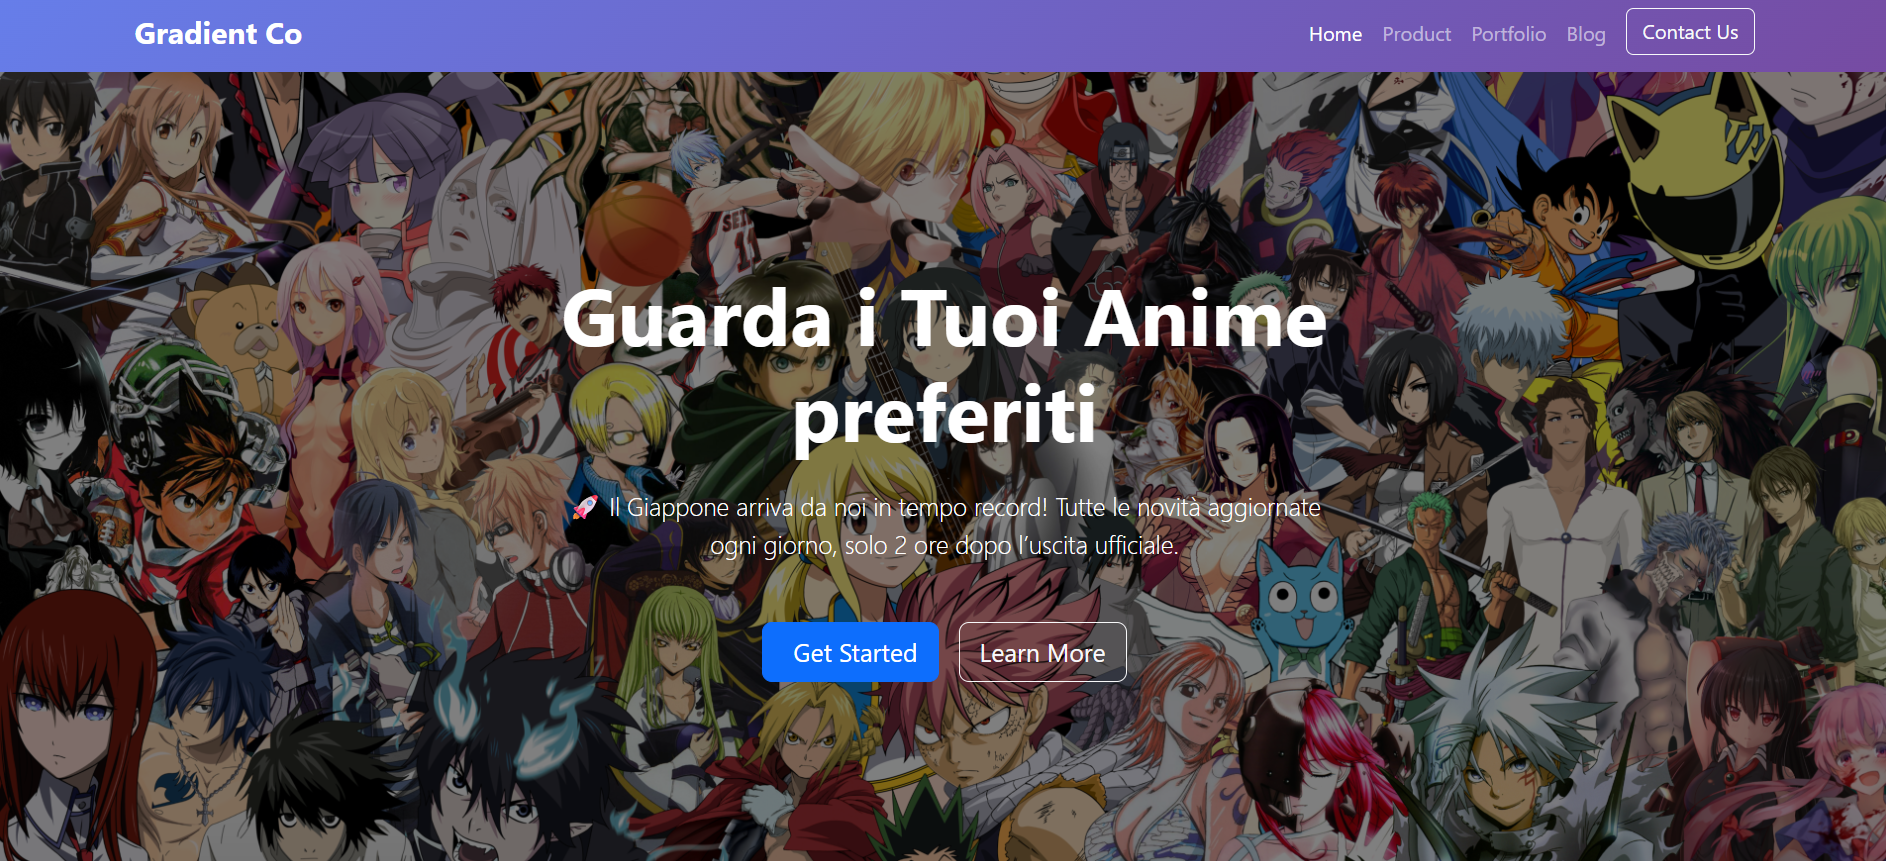
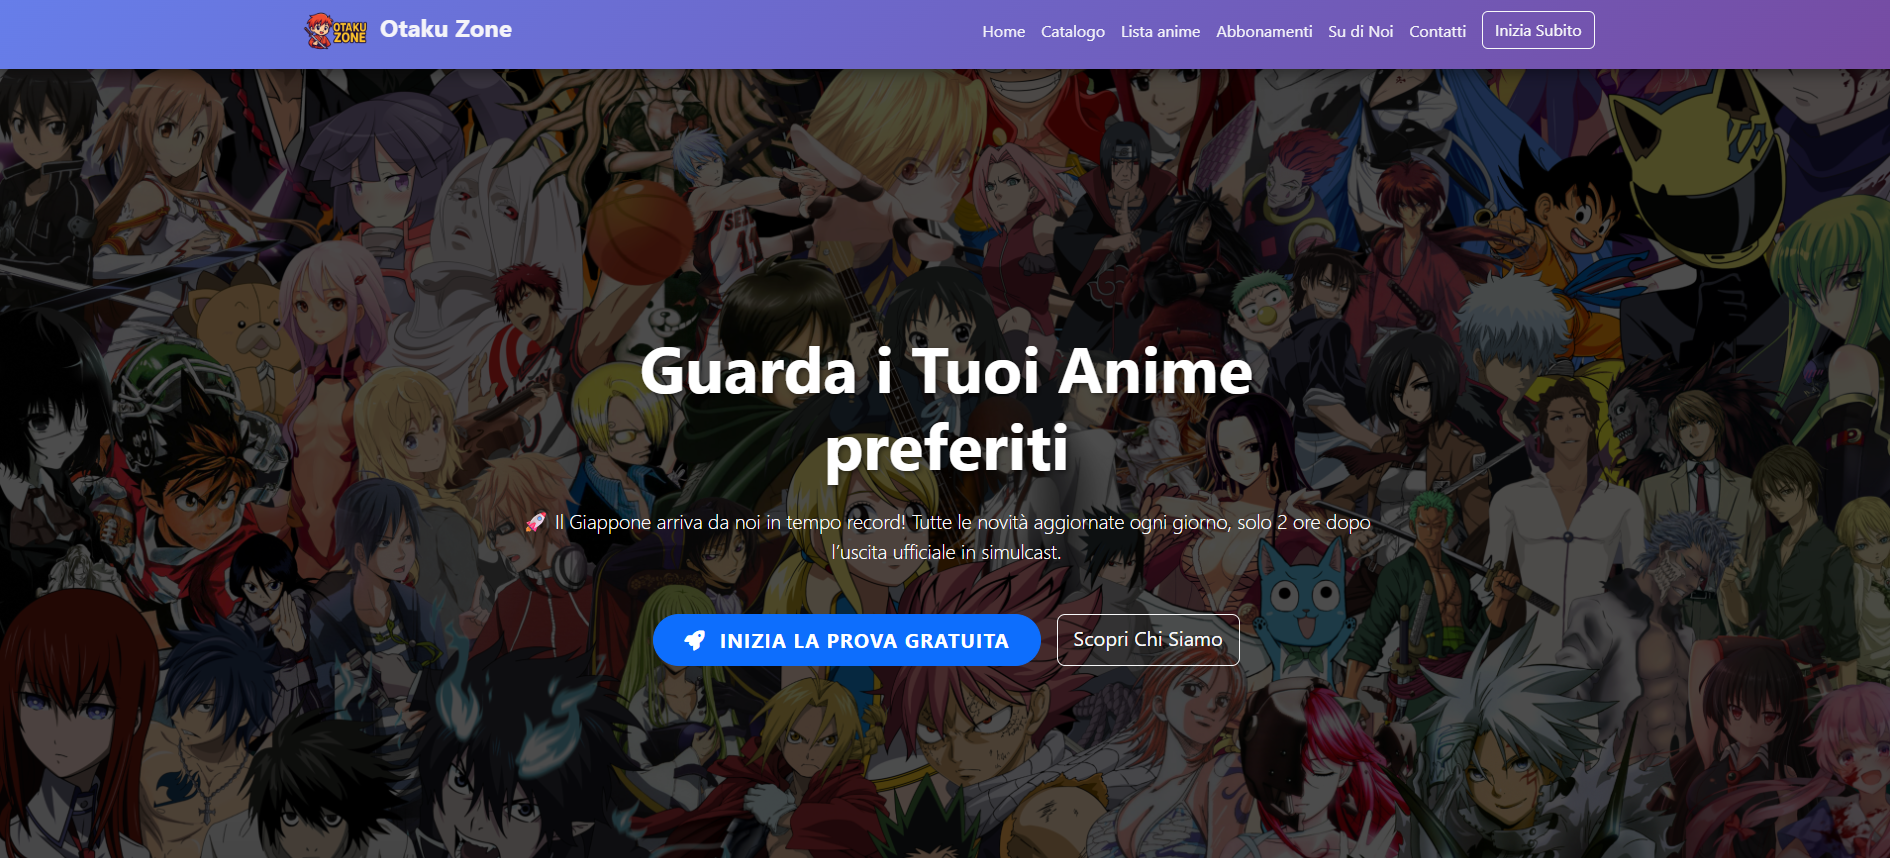
cambiati screenshot readme

diff --git a/product.html b/product.html
@@ -18,7 +18,8 @@
     <nav class="navbar navbar-expand-lg navbar-dark navbar-gradient fixed-top">
         <div class="container">
             <a class="navbar-brand logo fw-bold" href="index.html">
-                <i class="fas fa-hat-wizard me-2"></i> AnimeStream
+                <img src="images/ChatGPT Image 18 ott 2025, 22_02_49.png" alt="animeList" style="height: 50px; margin_right: 10px">
+                 Otaku Zone
             </a>
             
             <button class="navbar-toggler" type="button" data-bs-toggle="collapse" data-bs-target="#navbarNav2" aria-controls="navbarNav2" aria-expanded="false" aria-label="Toggle navigation">
@@ -33,6 +34,8 @@
                     <li class="nav-item">
                         <a class="nav-link active" href="#">Catalogo</a>
                     </li>
+                    <li class="nav-item">
+                        <a class="nav-link active" href="animelist.html">Lista anime</a>
                     <li class="nav-item">
                         <a class="nav-link" href="index.html#abbonamenti">Abbonamenti</a>
                     </li>

diff --git a/aboutUs.html b/aboutUs.html
@@ -20,7 +20,8 @@
     <nav class="navbar navbar-expand-lg navbar-dark navbar-gradient fixed-top">
         <div class="container">
             <a class="navbar-brand logo fw-bold" href="index.html">
-                <i class="fas fa-hat-wizard me-2"></i> AnimeStream
+                <img src="images/ChatGPT Image 18 ott 2025, 22_02_49.png" alt="animeList" style="height: 50px; margin_right: 10px">
+                 Otaku Zone
             </a>
             
             <button class="navbar-toggler" type="button" data-bs-toggle="collapse" data-bs-target="#navbarNav" aria-controls="navbarNav" aria-expanded="false" aria-label="Toggle navigation">
@@ -35,6 +36,8 @@
                     <li class="nav-item">
                         <a class="nav-link" href="animeList.html">Catalogo</a>
                     </li>
+                    <li class="nav-item">
+                        <a class="nav-link active" href="animelist.html">Lista anime</a>
                     <li class="nav-item">
                         <a class="nav-link" href="pricing.html">Abbonamenti</a>
                     </li>

diff --git a/animelist.html b/animelist.html
@@ -20,7 +20,8 @@
     <nav class="navbar navbar-expand-lg navbar-dark navbar-gradient fixed-top">
         <div class="container">
             <a class="navbar-brand logo fw-bold" href="index.html">
-                <i class="fas fa-hat-wizard me-2"></i> AnimeStream
+                <img src="images/ChatGPT Image 18 ott 2025, 22_02_49.png" alt="animeList" style="height: 50px; margin_right: 10px">
+                 Otaku Zone
             </a>
             
             <button class="navbar-toggler" type="button" data-bs-toggle="collapse" data-bs-target="#navbarNav" aria-controls="navbarNav" aria-expanded="false" aria-label="Toggle navigation">
@@ -35,6 +36,8 @@
                     <li class="nav-item">
                         <a class="nav-link active" href="#">Catalogo</a>
                     </li>
+                    <li class="nav-item">
+                        <a class="nav-link active" href="animelist.html">Lista anime</a>
                     <li class="nav-item">
                         <a class="nav-link" href="pricing.html">Abbonamenti</a>
                     </li>

diff --git a/index.html b/index.html
@@ -35,7 +35,7 @@
                     </li>
                     <li class="nav-item">
                         <a class="nav-link" href="product.html">Catalogo</a>
-                        <li class="nav-item">
+                    <li class="nav-item">
                         <a class="nav-link active" href="animelist.html">Lista anime</a>
                     </li>
                     <li class="nav-item">
